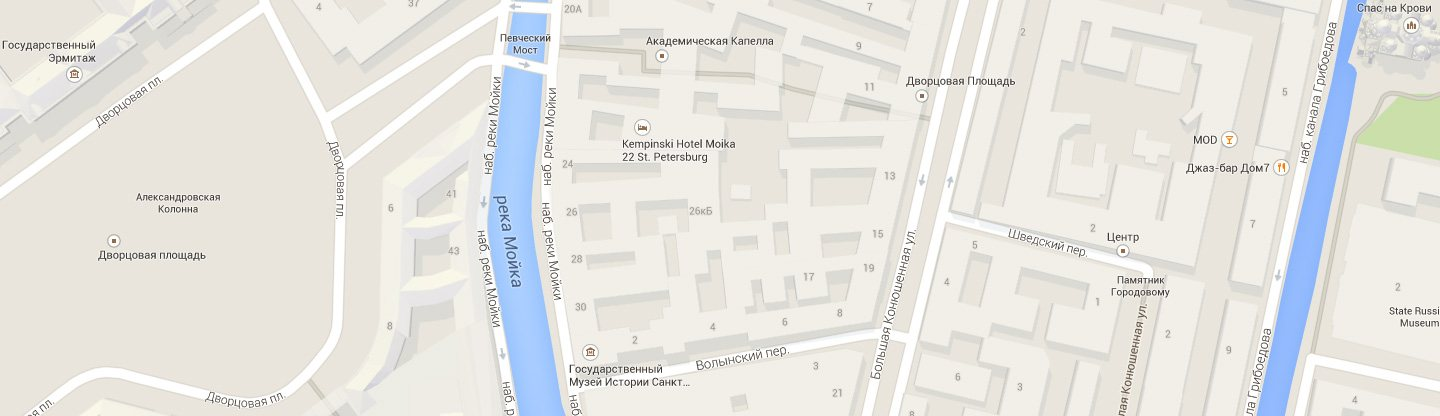
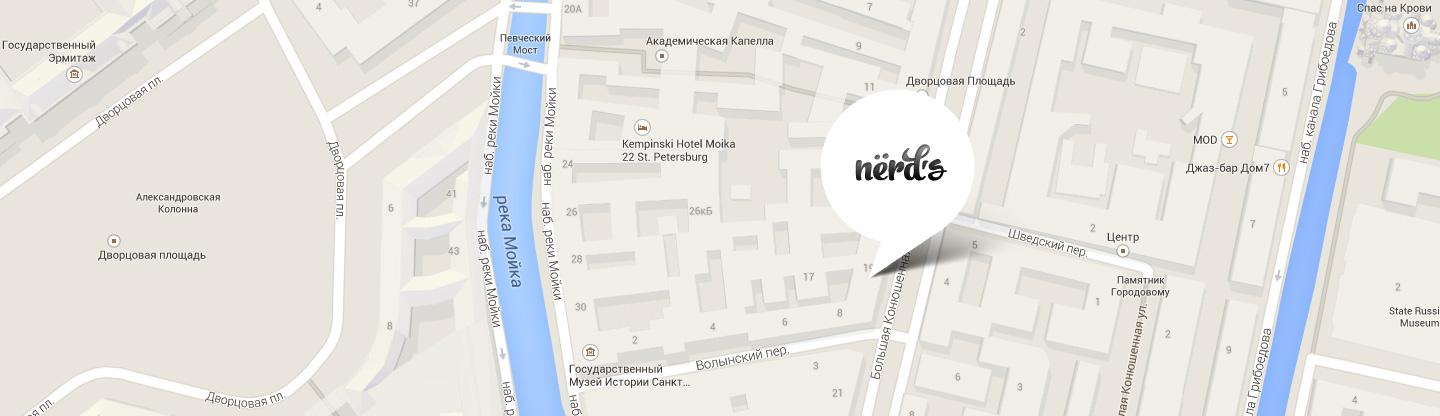
Fix map

Changed region(s): [[0.5625, 0.2188, 0.6875, 0.6875]]

diff --git a/index.html b/index.html
@@ -3,12 +3,12 @@
   <head>
     <meta charset="utf-8" />
     <title>HTML Academy: Нёрдс</title>
-    <link rel="stylesheet" href="css/normalize.css" />
-    <link rel="stylesheet" href="css/style.css" />
     <link
       href="https://fonts.googleapis.com/css?family=Roboto:400,500,700&display=swap&subset=cyrillic"
       rel="stylesheet"
     />
+    <link rel="stylesheet" href="css/normalize.css" />
+    <link rel="stylesheet" href="css/style.css" />
   </head>
 
   <body>
@@ -34,70 +34,76 @@
       </div>
     </header>
 
-    <section class="slider">
-      <input
-        class="visually-hidden"
-        type="radio"
-        id="product-1"
-        name="toggle"
-        checked
-      />
-      <input
-        class="visually-hidden"
-        type="radio"
-        id="product-2"
-        name="toggle"
-      />
-      <input
-        class="visually-hidden"
-        type="radio"
-        id="product-3"
-        name="toggle"
-      />
-      <div class="slider-wrapper">
-        <div class="slider-controls-wrapper">
-          <div class="slider-controls">
-            <label for="product-1"><p class="visually-hidden">Первый</p></label>
-            <label for="product-2"><p class="visually-hidden">Второй</p></label>
-            <label for="product-3"><p class="visually-hidden">Третий</p></label>
+    <main>
+      <section class="slider">
+        <input
+          class="visually-hidden"
+          type="radio"
+          id="product-1"
+          name="toggle"
+          checked
+        />
+        <input
+          class="visually-hidden"
+          type="radio"
+          id="product-2"
+          name="toggle"
+        />
+        <input
+          class="visually-hidden"
+          type="radio"
+          id="product-3"
+          name="toggle"
+        />
+        <div class="slider-wrapper">
+          <div class="slider-controls-wrapper">
+            <div class="slider-controls">
+              <label for="product-1"
+                ><p class="visually-hidden">Первый</p></label
+              >
+              <label for="product-2"
+                ><p class="visually-hidden">Второй</p></label
+              >
+              <label for="product-3"
+                ><p class="visually-hidden">Третий</p></label
+              >
+            </div>
+          </div>
+          <div class="container">
+            <ul class="list slider-list">
+              <li class="slider-item slide" id="slide1">
+                <h3 class="slider-title">
+                  Долго, дорого, скрупулезно.
+                </h3>
+                <p class="slider-text">
+                  Математически выверенный дизайн<br />для вашего сайта или
+                  мобильного приложения.
+                </p>
+                <a class="button button-slider" href="#">Узнать больше</a>
+              </li>
+              <li class="slider-item slide" id="slide2">
+                <h3 class="slider-title">
+                  Любим математику<br />как никто другой
+                </h3>
+                <p class="slider-text">
+                  Никакого креатива, только математические формулы<br />для
+                  расчета идеальных пропорций.
+                </p>
+                <a class="button button-slider" href="#">Узнать больше</a>
+              </li>
+              <li class="slider-item slide" id="slide3">
+                <h3 class="slider-title">Только ночь,<br />только хардкор</h3>
+                <p class="slider-text">
+                  Работать днем, как все? Мы против этого.<br />Ближе к полуночи
+                  работа только начинается.
+                </p>
+                <a class="button button-slider" href="#">Узнать больше</a>
+              </li>
+            </ul>
           </div>
         </div>
-        <div class="container">
-          <ul class="list slider-list">
-            <li class="slider-item slide" id="slide1">
-              <h3 class="slider-title">
-                Долго, дорого, скрупулезно.
-              </h3>
-              <p class="slider-text">
-                Математически выверенный дизайн<br />для вашего сайта или
-                мобильного приложения.
-              </p>
-              <a class="button button-slider" href="#">Узнать больше</a>
-            </li>
-            <li class="slider-item slide" id="slide2">
-              <h3 class="slider-title">
-                Любим математику<br />как никто другой
-              </h3>
-              <p class="slider-text">
-                Никакого креатива, только математические формулы<br />для
-                расчета идеальных пропорций.
-              </p>
-              <a class="button button-slider" href="#">Узнать больше</a>
-            </li>
-            <li class="slider-item slide" id="slide3">
-              <h3 class="slider-title">Только ночь,<br />только хардкор</h3>
-              <p class="slider-text">
-                Работать днем, как все? Мы против этого.<br />Ближе к полуночи
-                работа только начинается.
-              </p>
-              <a class="button button-slider" href="#">Узнать больше</a>
-            </li>
-          </ul>
-        </div>
-      </div>
-    </section>
+      </section>
 
-    <main>
       <div class="container">
         <section class="products">
           <h1 class="visually-hidden">Дизайн-студия «Nëerd's»</h1>
@@ -234,20 +240,14 @@
           <div class="contacts-wrap">
             <h2 class="visually-hidden">Контакты студии</h2>
             <p class="contacts-title">Nёrds design studio</p>
-            <p>191186, Санкт-Петербург, ул.&nbsp;Б. Конюшенная, д. 19/8</p>
-            <p>тел. <a href="tel:+78122757575">+7 (812) 275-75-75</a></p>
+            <div class="contacts-address">
+              <p>191186, Санкт-Петербург, ул.&nbsp;Б. Конюшенная, д. 19/8</p>
+              <p>тел. <a href="tel:+78122757575">+7 (812) 275-75-75</a></p>
+            </div>
             <button class="button button-contacts" type="button">
               Напишите нам
             </button>
           </div>
-        </div>
-        <div class="contacts-map">
-          <img
-            src="img/map.jpg"
-            width="1440"
-            height="416"
-            alt="Адрес студии 191186, Санкт-Петербург, ул. Б. Конюшенная, д. 19/8"
-          />
         </div>
       </section>
     </main>

diff --git a/css/style.css b/css/style.css
@@ -19,6 +19,8 @@ body {
   font-weight: 400;
   color: #283136;
 
+  min-width: 1200px;
+
   background-color: #ffffff;
 }
 
@@ -343,7 +345,7 @@ a {
 }
 
 .benefits-text-column {
-  width: 650px;
+  width: 654px;
 }
 
 .benefits-lead {
@@ -496,22 +498,6 @@ a {
 
 .partners-wrap img:hover {
   opacity: 1;
-}
-
-.contacts {
-  line-height: 18px;
-  color: #666666;
-}
-
-.contacts-title {
-  color: #000000;
-  font-weight: 700;
-  text-transform: uppercase;
-}
-
-.catalog-wrap {
-  display: flex;
-  justify-content: space-between;
 }
 
 .main-title {
@@ -825,6 +811,11 @@ a {
   opacity: 1;
 }
 
+.catalog-wrap {
+  display: flex;
+  justify-content: space-between;
+}
+
 .catalog-list {
   display: flex;
   flex-wrap: wrap;
@@ -984,44 +975,51 @@ a {
 }
 
 .contacts {
+  padding-top: 40px;
   margin-top: 16px;
+  line-height: 18px;
+  color: #666666;
   position: relative;
+  height: 416px;
+
+  background-image: url("../img/map.jpg");
+  background-position: center;
+  background-repeat: no-repeat;
 }
 
 .contacts-wrap {
   position: relative;
   box-sizing: border-box;
   width: 319px;
-  height: 308px;
+  max-height: 344px;
+
   background-color: #ffffff;
-  top: 74px;
+  top: 34px;
   left: 0;
   z-index: 1;
 
+  padding-top: 31px;
   padding-left: 50px;
-  padding-top: 36px;
+  padding-bottom: 48px;
   padding-right: 49px;
 }
 
-.contacts-wrap::after {
-  content: "";
-  position: absolute;
-
-  top: 35px;
-  left: 680px;
-
-  width: 231px;
-  height: 190px;
-
-  background-image: url("../img/map-marker.png");
-  background-repeat: no-repeat;
-  background-position: 0 0;
-}
-
 .contacts-title {
+  color: #000000;
   font-size: 18px;
   font-weight: 700;
-  margin-bottom: 29px;
+  margin-bottom: 9px;
+  line-height: 28px;
+  text-transform: uppercase;
+
+  overflow: hidden;
+  max-height: 56px;
+}
+
+.contacts-address {
+  margin-top: 0;
+  overflow: hidden;
+  max-height: 108px;
 }
 
 .contacts a {
@@ -1030,21 +1028,14 @@ a {
 }
 
 .button-contacts {
-  margin-top: 20px;
+  margin-top: 19px;
   padding-left: 45px;
   padding-right: 45px;
 }
 
-.contacts-map {
-  margin-top: 20px;
-  position: absolute;
-  top: 0;
-  left: 0;
-}
-
 .main-footer-wrap {
   display: flex;
-  margin-top: 185px;
+  margin-top: 37px;
   align-items: center;
   padding-bottom: 20px;
 }
@@ -1147,7 +1138,7 @@ a {
 
 .modal {
   display: block;
-  /*  display: none; */
+  display: none;
   position: absolute;
   box-sizing: border-box;
 

diff --git a/catalog.html b/catalog.html
@@ -3,12 +3,12 @@
   <head>
     <meta charset="utf-8" />
     <title>HTML Academy: Нёрдс</title>
-    <link rel="stylesheet" href="css/normalize.css" />
-    <link rel="stylesheet" href="css/style.css" />
     <link
       href="https://fonts.googleapis.com/css?family=Roboto:400,500,700&display=swap&subset=cyrillic"
       rel="stylesheet"
     />
+    <link rel="stylesheet" href="css/normalize.css" />
+    <link rel="stylesheet" href="css/style.css" />
   </head>
   <body>
     <header class="main-header">
@@ -334,20 +334,14 @@
           <div class="contacts-wrap">
             <h2 class="visually-hidden">Контакты студии</h2>
             <p class="contacts-title">Nёrds design studio</p>
-            <p>191186, Санкт-Петербург, ул.&nbsp;Б. Конюшенная, д. 19/8</p>
-            <p>тел. <a href="tel:+78122757575">+7 (812) 275-75-75</a></p>
+            <div class="contacts-address">
+              <p>191186, Санкт-Петербург, ул.&nbsp;Б. Конюшенная, д. 19/8</p>
+              <p>тел. <a href="tel:+78122757575">+7 (812) 275-75-75</a></p>
+            </div>
             <button class="button button-contacts" type="button">
               Напишите нам
             </button>
           </div>
-        </div>
-        <div class="contacts-map">
-          <img
-            src="img/map.jpg"
-            width="1440"
-            height="416"
-            alt="Адрес студии 191186, Санкт-Петербург, ул. Б. Конюшенная, д. 19/8"
-          />
         </div>
       </section>
     </main>
